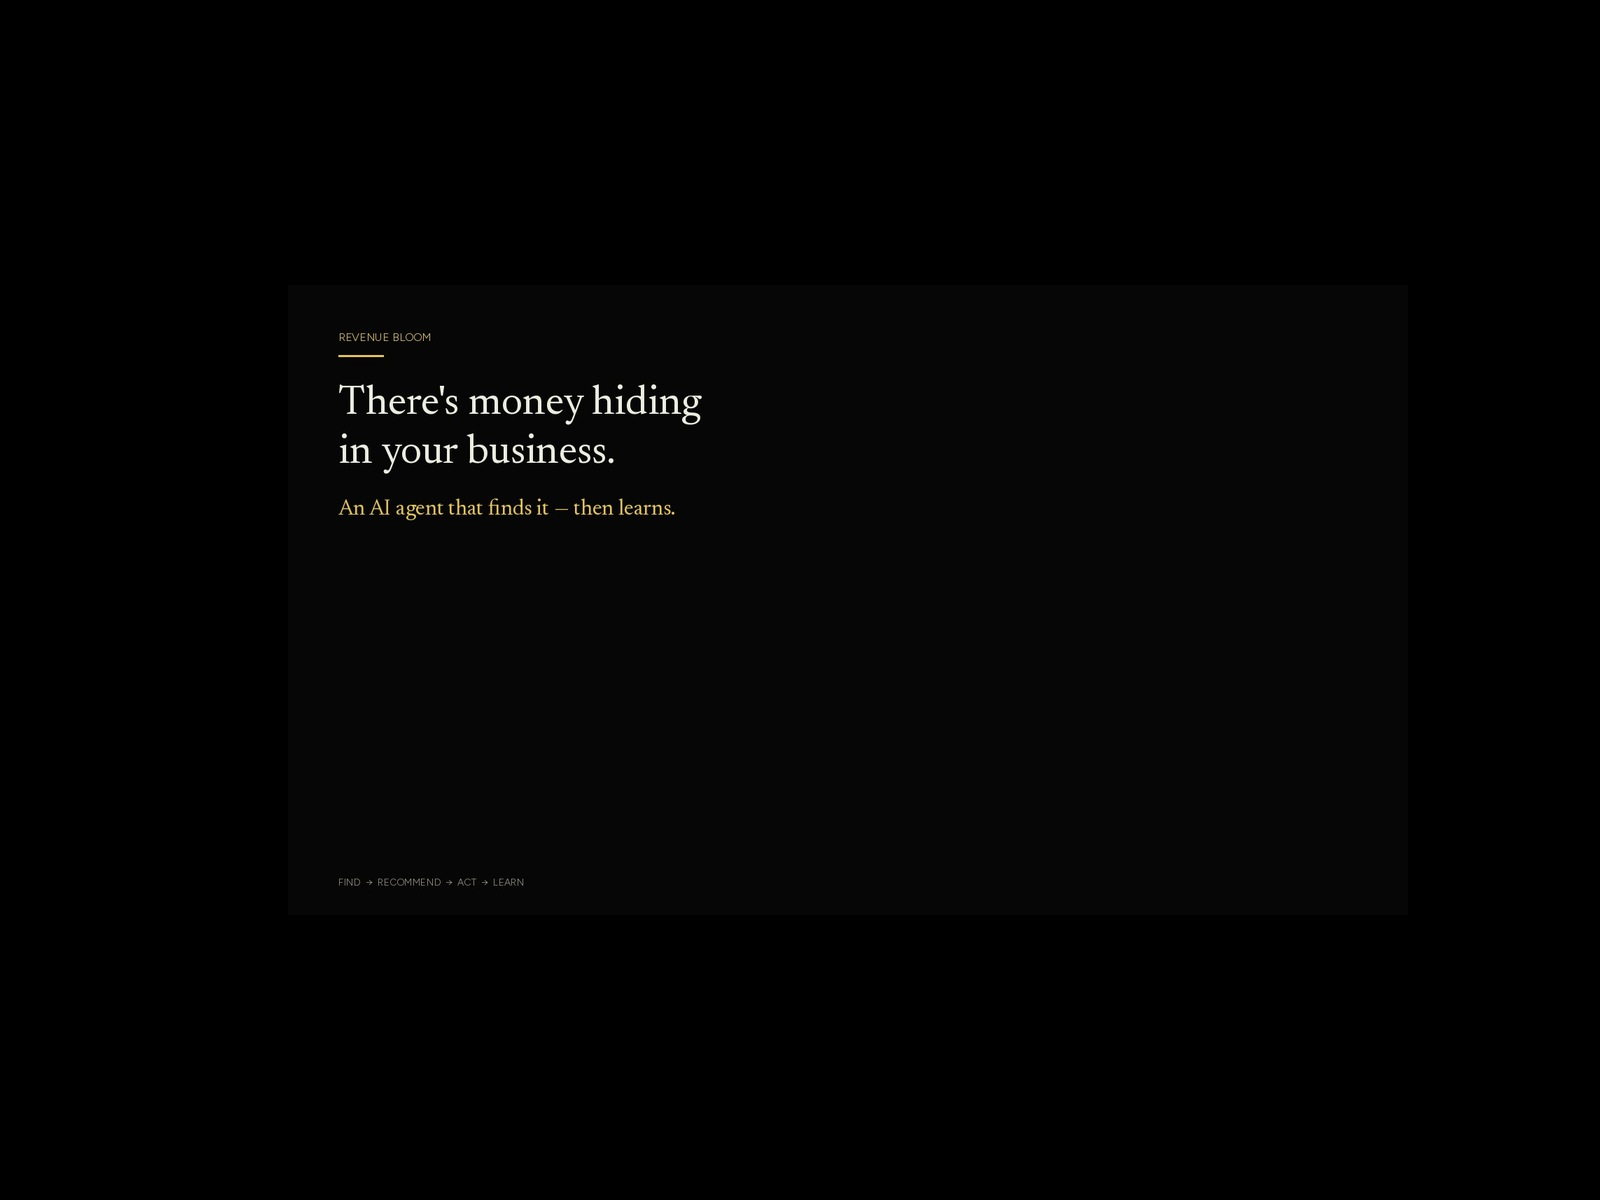
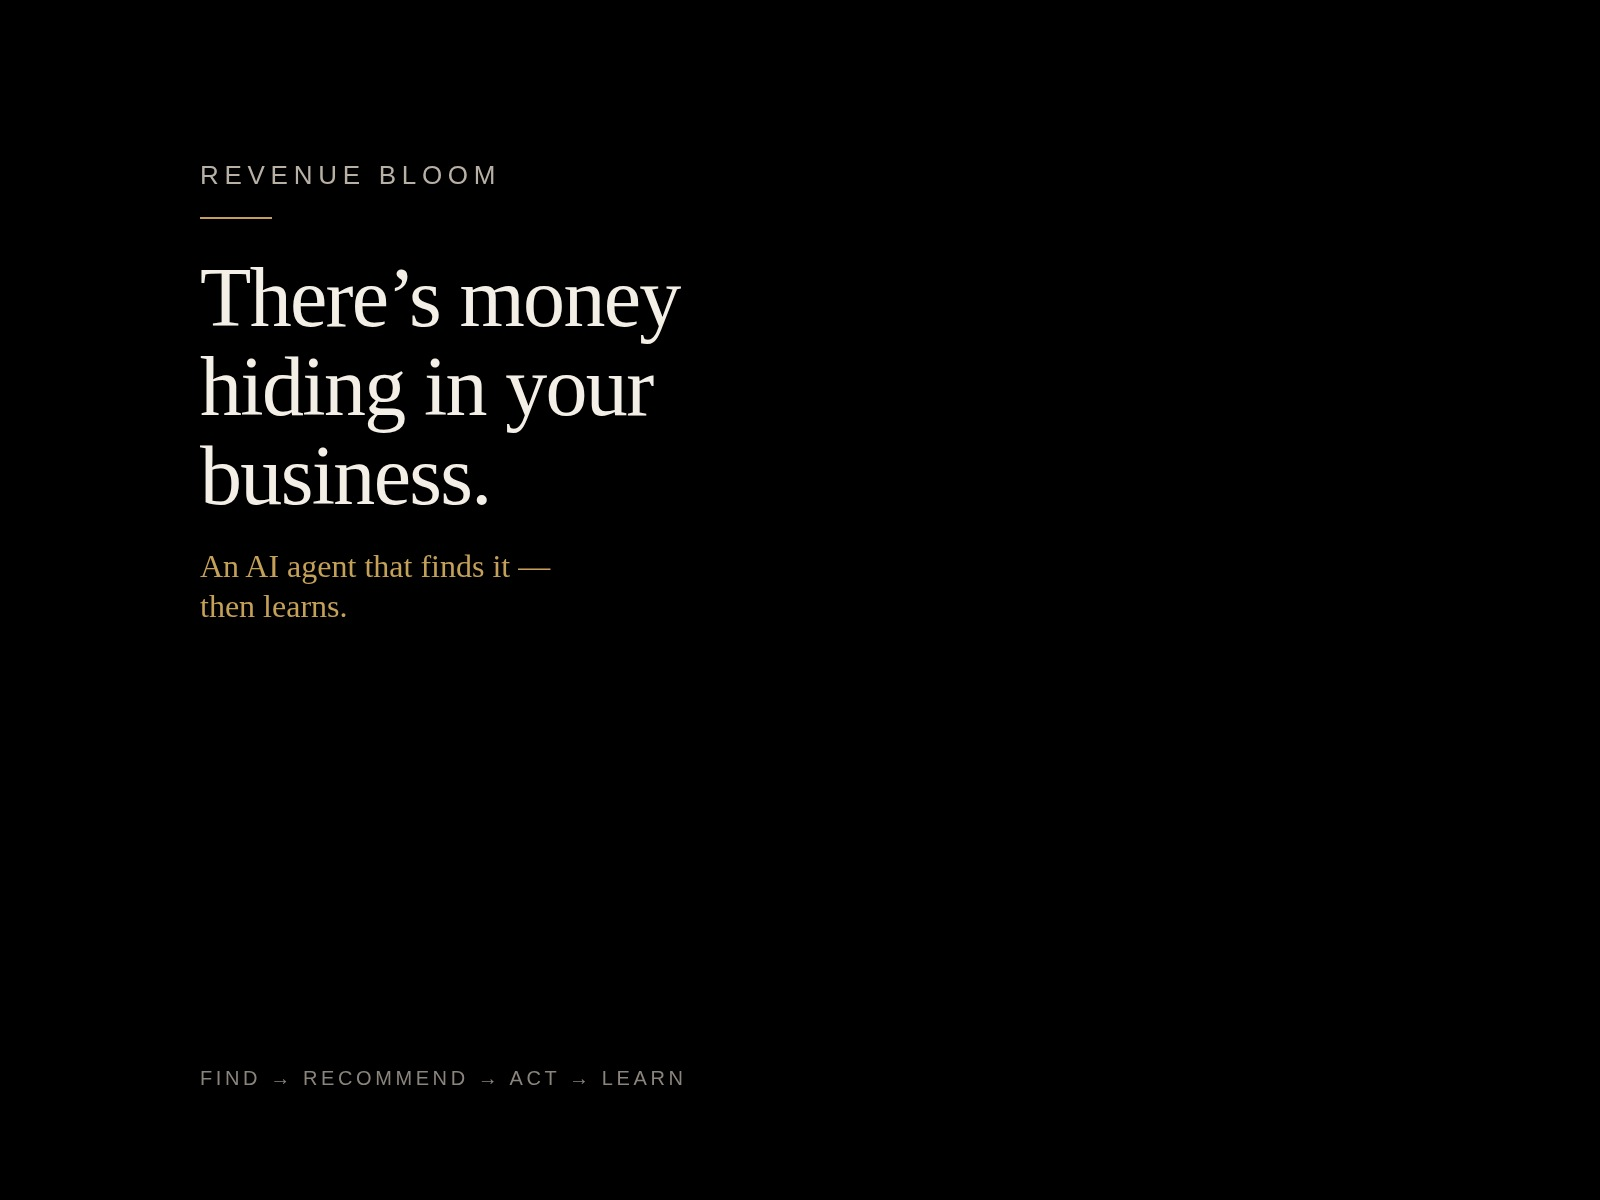
Rebuild black covers as true 4:3 type; never crop thumbs

diff --git a/index.html b/index.html
@@ -12,7 +12,7 @@
 <meta name="twitter:card" content="summary_large_image">
 <link rel="preconnect" href="https://fonts.googleapis.com">
 <link href="https://fonts.googleapis.com/css2?family=Figtree:wght@300;400;500;600&display=swap" rel="stylesheet">
-<link rel="stylesheet" href="css/site.css?v=love3">
+<link rel="stylesheet" href="css/site.css?v=love4">
 </head>
 <body>
 <header class="nav">
@@ -39,7 +39,7 @@
   <div class="grid">
 
     <a class="card" href="work/found-money-friend.html">
-      <div class="thumb"><img src="img/found-money-friend/cover-v2.jpg" alt="Revenue Bloom product demo" loading="lazy"></div>
+      <div class="thumb"><img src="img/found-money-friend/cover-v3.jpg" alt="Revenue Bloom product demo" loading="lazy"></div>
       <div class="meta">
         <div>
           <strong>Revenue Bloom</strong>
@@ -50,7 +50,7 @@
     </a>
 
     <a class="card" href="work/demand-more-supply.html">
-      <div class="thumb"><img src="img/demand-more-supply/cover-v2.jpg" alt="Demand More Supply Utah housing campaign" loading="lazy"></div>
+      <div class="thumb"><img src="img/demand-more-supply/cover-v3.jpg" alt="Demand More Supply Utah housing campaign" loading="lazy"></div>
       <div class="meta">
         <div>
           <strong>Demand More Supply</strong>
@@ -94,7 +94,7 @@
     </a>
 
     <a class="card" href="work/the-ads.html">
-      <div class="thumb"><img src="img/the-ads/cover-v2.jpg" alt="Selected advertising work" loading="lazy"></div>
+      <div class="thumb"><img src="img/the-ads/cover-v3.jpg" alt="Selected advertising work" loading="lazy"></div>
       <div class="meta">
         <div>
           <strong>The Ads</strong>

diff --git a/css/site.css b/css/site.css
@@ -78,11 +78,12 @@ img { max-width: 100%; display: block; height: auto; }
 @media (max-width: 760px) { .grid { grid-template-columns: 1fr; } }
 .card { display: block; }
 .card .thumb {
-  background: var(--soft);
+  background: #000;
   aspect-ratio: 4/3;
   overflow: hidden;
+  position: relative;
 }
-.card img { width: 100%; height: 100%; object-fit: cover; object-position: left center; }
+.card img { width: 100%; height: 100%; object-fit: contain; object-position: center center; display: block; }
 .card .meta {
   padding: 0.85rem 0 1.6rem;
   display: flex; justify-content: space-between; gap: 1rem; align-items: flex-start;

diff --git a/contact.html b/contact.html
@@ -5,7 +5,7 @@
 <meta name="viewport" content="width=device-width, initial-scale=1">
 <title>Contact — Rhett Boyakin</title>
 <link href="https://fonts.googleapis.com/css2?family=Figtree:wght@300;400;500;600&display=swap" rel="stylesheet">
-<link rel="stylesheet" href="css/site.css?v=love3">
+<link rel="stylesheet" href="css/site.css?v=love4">
 </head>
 <body>
 <header class="nav">
